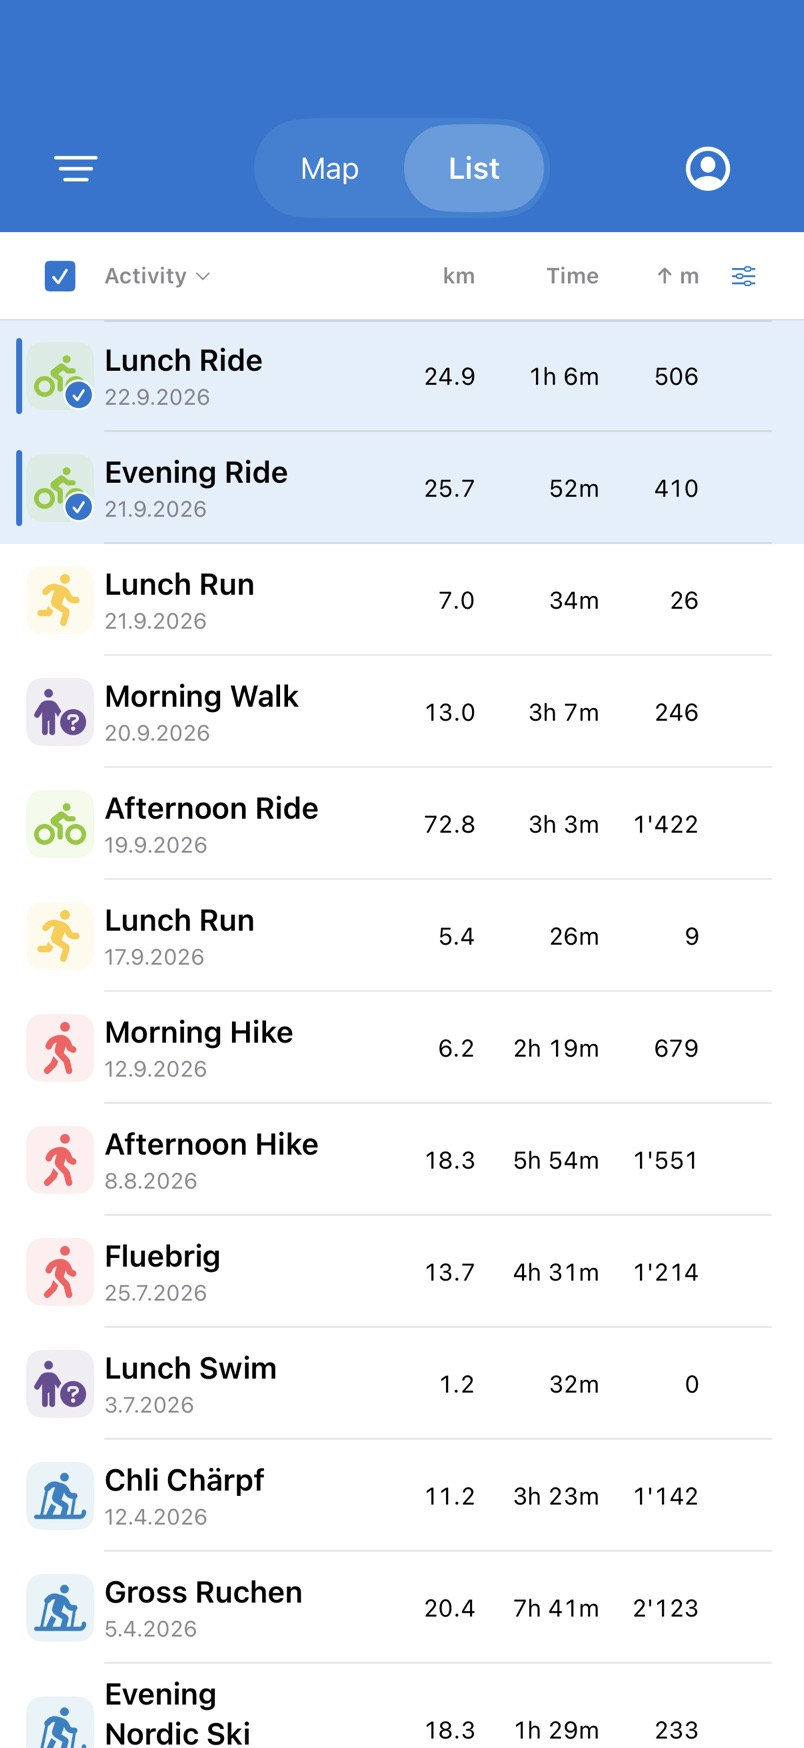
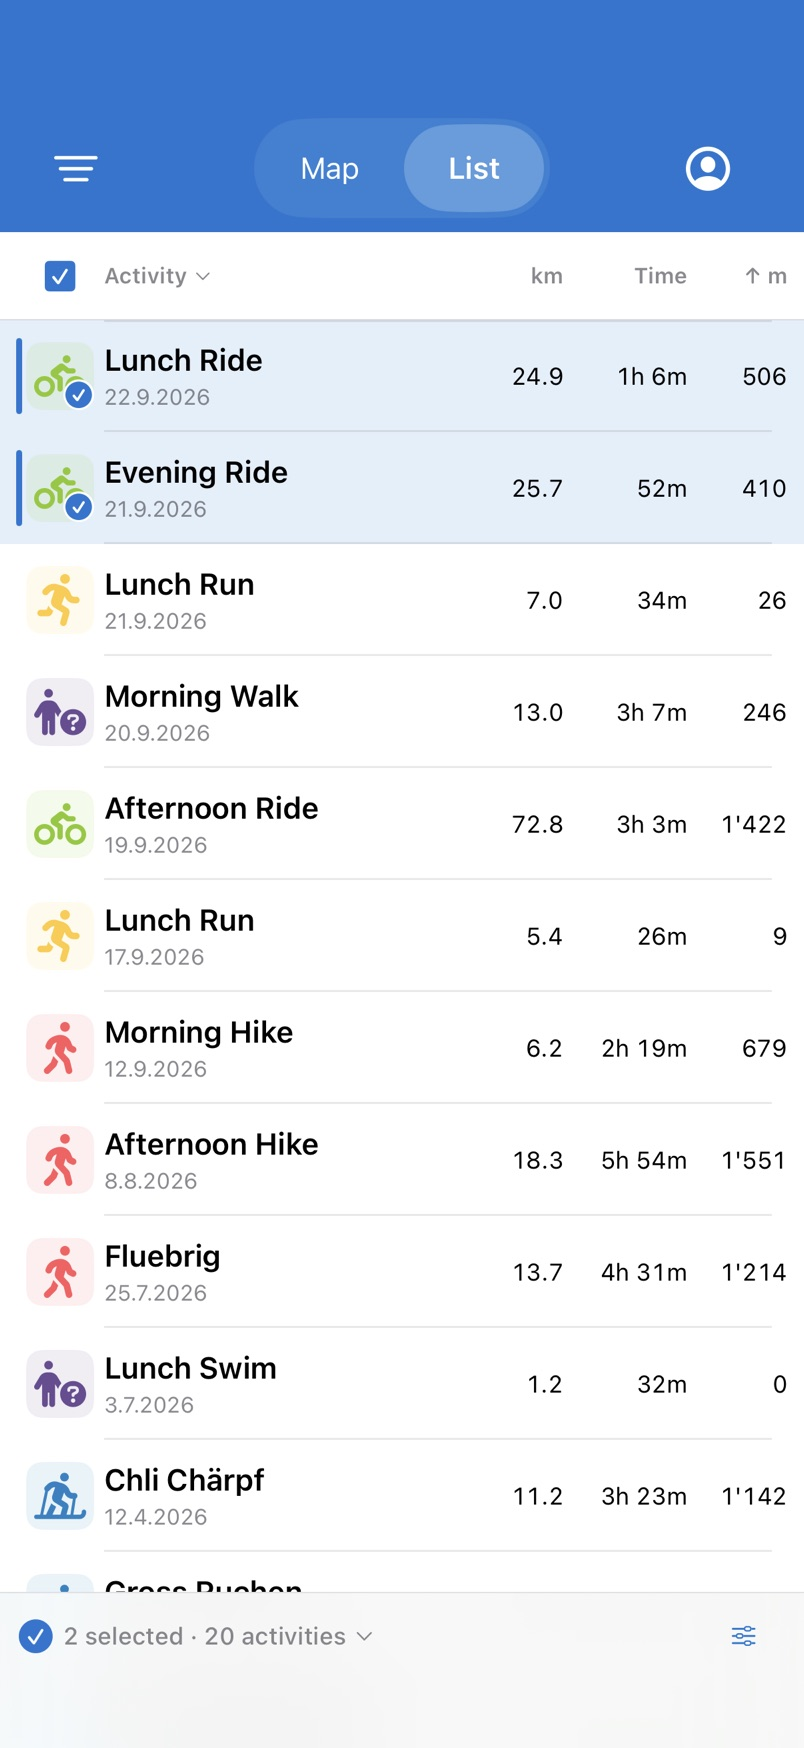
Move list settings and counts into a bottom status bar

diff --git a/ios/ActivityMap/ActivityMap/List/ListScreen.swift b/ios/ActivityMap/ActivityMap/List/ListScreen.swift
@@ -78,24 +78,20 @@ struct ListScreen: View {
         .listStyle(.plain)
         .safeAreaInset(edge: .top, spacing: 0) {
             if ActivityTableLayout.supports(store.listPresentation.settings, typeSize: typeSize, availableWidth: width) {
-                ActivityTableHeader(store: store, availableWidth: width, sortOpen: $sortOpen, displayOpen: $displayOpen)
-            } else {
-                ViewThatFits(in: .horizontal) {
-                    HStack(spacing: AppTheme.Spacing.small) {
-                        SelectionBar(store: store)
-                        Spacer(minLength: 0)
-                        ListControls(presentation: store.listPresentation, sortOpen: $sortOpen, displayOpen: $displayOpen)
-                    }
-                    VStack(alignment: .leading, spacing: 0) {
-                        SelectionBar(store: store)
-                        ListControls(presentation: store.listPresentation, sortOpen: $sortOpen, displayOpen: $displayOpen).padding(.leading, 44)
-                    }
-                }
-                .padding(.horizontal, AppTheme.Spacing.small)
-                .background(Color(uiColor: .systemBackground))
-                .overlay(alignment: .bottom) { Divider() }
-                .accessibilityIdentifier("list-browse-toolbar")
+                ActivityTableHeader(store: store, availableWidth: width)
             }
+        }
+        .safeAreaInset(edge: .bottom, spacing: 0) {
+            HStack(spacing: AppTheme.Spacing.small) {
+                SelectionBar(store: store, includesTotal: true)
+                Spacer(minLength: 8)
+                ListControls(presentation: store.listPresentation, iconOnly: true,
+                             sortOpen: $sortOpen, displayOpen: $displayOpen)
+            }
+            .padding(.horizontal, AppTheme.Spacing.small)
+            .background(.bar)
+            .overlay(alignment: .top) { Color(uiColor: .separator).frame(height: 0.5) }
+            .accessibilityIdentifier("list-status-bar")
         }
         .modifier(ListOptionsSheets(presentation: store.listPresentation, sortOpen: $sortOpen, displayOpen: $displayOpen))
     }
@@ -135,6 +131,7 @@ struct ListScreen: View {
 struct SelectionBar: View {
     @Bindable var store: ActivityStore
     var iconOnly = false
+    var includesTotal = false
 
     private var selectedCount: Int { store.selectedActivityIDs.count }
 
@@ -148,7 +145,9 @@ struct SelectionBar: View {
 
     private var visibleSummary: String {
         let count = selectedCount - store.hiddenSelectedCount
-        let scope = selectedCount == 0 ? "\(store.selection.visibleIDs.count) activities" : "\(count) selected"
+        let total = store.selection.visibleIDs.count
+        let scope = selectedCount == 0 ? "\(total) activities"
+            : includesTotal ? "\(count) selected · \(total) activities" : "\(count) selected"
         return store.hiddenSelectedCount > 0 ? "\(scope) · \(store.hiddenSelectedCount) hidden" : scope
     }
 

diff --git a/ios/ActivityMap/ActivityMap/List/ActivityTableHeader.swift b/ios/ActivityMap/ActivityMap/List/ActivityTableHeader.swift
@@ -9,7 +9,7 @@ enum ActivityTableLayout {
         // Preserve every configured metric. Fall back to the adaptive grid when
         // aligned columns would squeeze the activity name or clip their values.
         let nameWidth: CGFloat = availableWidth >= 700 ? 180 : 104
-        return availableWidth >= 104 + nameWidth + settings.orderedMetrics.reduce(CGFloat(0)) {
+        return availableWidth >= 60 + nameWidth + settings.orderedMetrics.reduce(CGFloat(0)) {
             $0 + width($1, availableWidth: availableWidth)
         }
     }
@@ -24,7 +24,7 @@ enum ActivityTableLayout {
     }
 
     static func showsDate(_ settings: ActivityListSettings, availableWidth: CGFloat) -> Bool {
-        availableWidth >= 700 && availableWidth >= 104 + 180 + 120
+        availableWidth >= 700 && availableWidth >= 60 + 180 + 120
             + settings.orderedMetrics.reduce(CGFloat(0)) { $0 + width($1, availableWidth: availableWidth) }
     }
 
@@ -54,8 +54,6 @@ enum ActivityTableLayout {
 struct ActivityTableHeader: View {
     @Bindable var store: ActivityStore
     var availableWidth: CGFloat = 390
-    @Binding var sortOpen: Bool
-    @Binding var displayOpen: Bool
     private var presentation: ActivityListPresentation { store.listPresentation }
 
     var body: some View {
@@ -100,7 +98,6 @@ struct ActivityTableHeader: View {
                 .accessibilityLabel("Sort by \(metric.title)")
                 .accessibilityValue(presentation.settings.sort.field == metric.field ? presentation.settings.sort.direction.title : "Not sorted")
             }
-            ListControls(presentation: presentation, iconOnly: true, sortOpen: $sortOpen, displayOpen: $displayOpen).frame(width: 44)
         }
         .font(.caption2.weight(.semibold))
         .foregroundStyle(AppTheme.secondaryText)

diff --git a/ios/ActivityMap/ActivityMap/List/ActivityRowView.swift b/ios/ActivityMap/ActivityMap/List/ActivityRowView.swift
@@ -50,8 +50,6 @@ struct ActivityRowView: View {
                     Button("Show on map") { store.showOnMap(activity.id) }
                 }
             }
-            // Match the header's display-control column without repeating a row menu.
-            if usesTable { Color.clear.frame(width: AppTheme.minimumTarget).accessibilityHidden(true) }
         }
         .padding(.vertical, settings.density == .compact ? 0 : 2)
         .contentShape(Rectangle())

diff --git a/docs/ios-list-density-review.md b/docs/ios-list-density-review.md
@@ -4,13 +4,13 @@ Baseline: merged main `c1e8e1d`. Default row spacing is reduced while preserving
 
 Additional metric configurations retain adaptive stacking when columns cannot fit. Fallback rows place name/local date above aligned primary values; accessibility text keeps full sport/date/time information and stacked labelled values. Unknown and recorded-zero formatting remain unchanged.
 
-Table rows omit the repeated actions menu; a clear trailing gutter keeps values aligned with their sortable headings. Tap inspects without selecting. Show on map is also available through a non-full-swipe action revealed by swiping right, the native long-press menu and VoiceOver actions; GPS-less activities cannot issue it. Swipe actions are omitted in horizontally scrolling-metric mode to preserve that gesture. The View menu retains complete sort/column/density options, alongside the direct column sorting controls.
+Table rows omit the repeated actions menu; the former trailing gutter is removed so names and sortable columns can use the full width. Tap inspects without selecting. Show on map is also available through a non-full-swipe action revealed by swiping right, the native long-press menu and VoiceOver actions; GPS-less activities cannot issue it. Swipe actions are omitted in horizontally scrolling-metric mode to preserve that gesture. A bottom safe-area bar shows filtered activity and selection counts, selection actions, and list settings for sorting, columns and density. It reserves space beneath the list so the last row remains reachable. The top header retains direct column sorting. No placeholder Edit action is shown. The final separator-only styling adjustment was verified by rebuilding and regenerating all eight gallery captures.
 
 Summaries were deliberately removed by the earlier `b0f5ddf` change. That behavior is preserved rather than reintroducing the stale summary scope in #255. No map-sheet transition work (#284/#285), tablet detail-host redesign (#273), or navigation sizing change is included.
 
 ## Matched screenshots
 
-Eight scenes per revision use the same 20-activity fixture. Screenshots compare the current merged UI with reduced row padding and restored sortable headers. Long names and large text may naturally use more height.
+Eight scenes per revision use the same 20-activity fixture. Screenshots compare the current merged UI with reduced row padding, full-width sortable headers and a bottom status bar. The bar uses roughly one row of vertical space compared with the preceding header-settings iteration. Long names and large text may naturally use more height.
 
 | Variant | Before | After |
 | --- | --- | --- |
@@ -21,8 +21,8 @@ Eight scenes per revision use the same 20-activity fixture. Screenshots compare 
 
 ## Validation
 
-After restoring phone headers and simplifying row actions, targeted simulator suites passed: **40 tests (109 parameterized runs), zero failures**. Coverage includes phone column fit, display-sheet retention across layout changes, sorting, preference persistence, null/zero metrics, independent inspection/selection and exact scroll retention with 2,000 lazy rows.
+With the bottom status bar and full-width columns, targeted simulator suites passed: **40 tests (109 parameterized runs), zero failures**. Coverage includes phone column fit, display-sheet retention across layout changes, sorting, preference persistence, null/zero metrics, independent inspection/selection and exact scroll retention with 2,000 lazy rows.
 
-Result: `/tmp/activitymap-navigation-build/Logs/Test/Test-ActivityMap-2026.10.03_21-23-21-+0200.xcresult`. The earlier iteration also passed the full suite (218 tests, 348 runs); current screenshots and targeted results supersede that iteration's phone layout. Simulator evidence does not replace physical-device touch/VoiceOver acceptance.
+Result: `/tmp/activitymap-navigation-build/Logs/Test/Test-ActivityMap-2026.10.03_21-57-23-+0200.xcresult`. The earlier iteration also passed the full suite (218 tests, 348 runs); current screenshots and targeted results supersede that iteration's phone layout. Simulator evidence does not replace physical-device touch/VoiceOver acceptance.
 
 Reproduce: `scripts/ios-gallery.sh list-density-review --scene list,list-detail --variant phone,phone-dark,small-large-text,tablet`.

diff --git a/docs/ios-ui-components.md b/docs/ios-ui-components.md
@@ -40,7 +40,7 @@ This section describes `main` after #270 and #278. Later sections record the #27
 
 ### List
 
-The live `ActivityRowView` uses a selectable sport badge and an independent inspection target. Phones and wider lists retain aligned sortable table columns whenever configured metrics fit. Reduced row padding improves density. Fallback rows place name/local date above primary metric values; additional metrics and accessibility text stack with labels. Show on map is available by swiping right, long-press menu and VoiceOver action. Scrolling-metric mode omits row swipes to preserve horizontal scrolling. Selection/count actions and the View menu retain complete sort, metric, width and density settings. No saved preferences change. The previously removed summary UI stays removed. See `docs/ios-list-density-review.md` for matched #255 evidence.
+The live `ActivityRowView` uses a selectable sport badge and an independent inspection target. Phones and wider lists retain aligned sortable table columns whenever configured metrics fit. Reduced row padding improves density. Fallback rows place name/local date above primary metric values; additional metrics and accessibility text stack with labels. Show on map is available by swiping right, long-press menu and VoiceOver action. Scrolling-metric mode omits row swipes to preserve horizontal scrolling. A bottom safe-area status bar holds selection/count actions and list settings for sort, metrics, width and density. The trailing row/header gutter is removed, while column headings retain direct sorting. No saved preferences change. The previously removed summary UI stays removed. See `docs/ios-list-density-review.md` for matched #255 evidence.
 
 The selection/Sort/Columns toolbar uses an opaque system background matching the table header (#278 replaced the earlier thin-material glass). Totals and the totals display picker are deferred, including for existing saved preferences. Filter and sort snapshots are keyed by data/filter/sort changes, and immutable date formatters are cached by locale/timezone/template. Inspection, selection and native navigation do not re-filter or re-sort the library.
 
